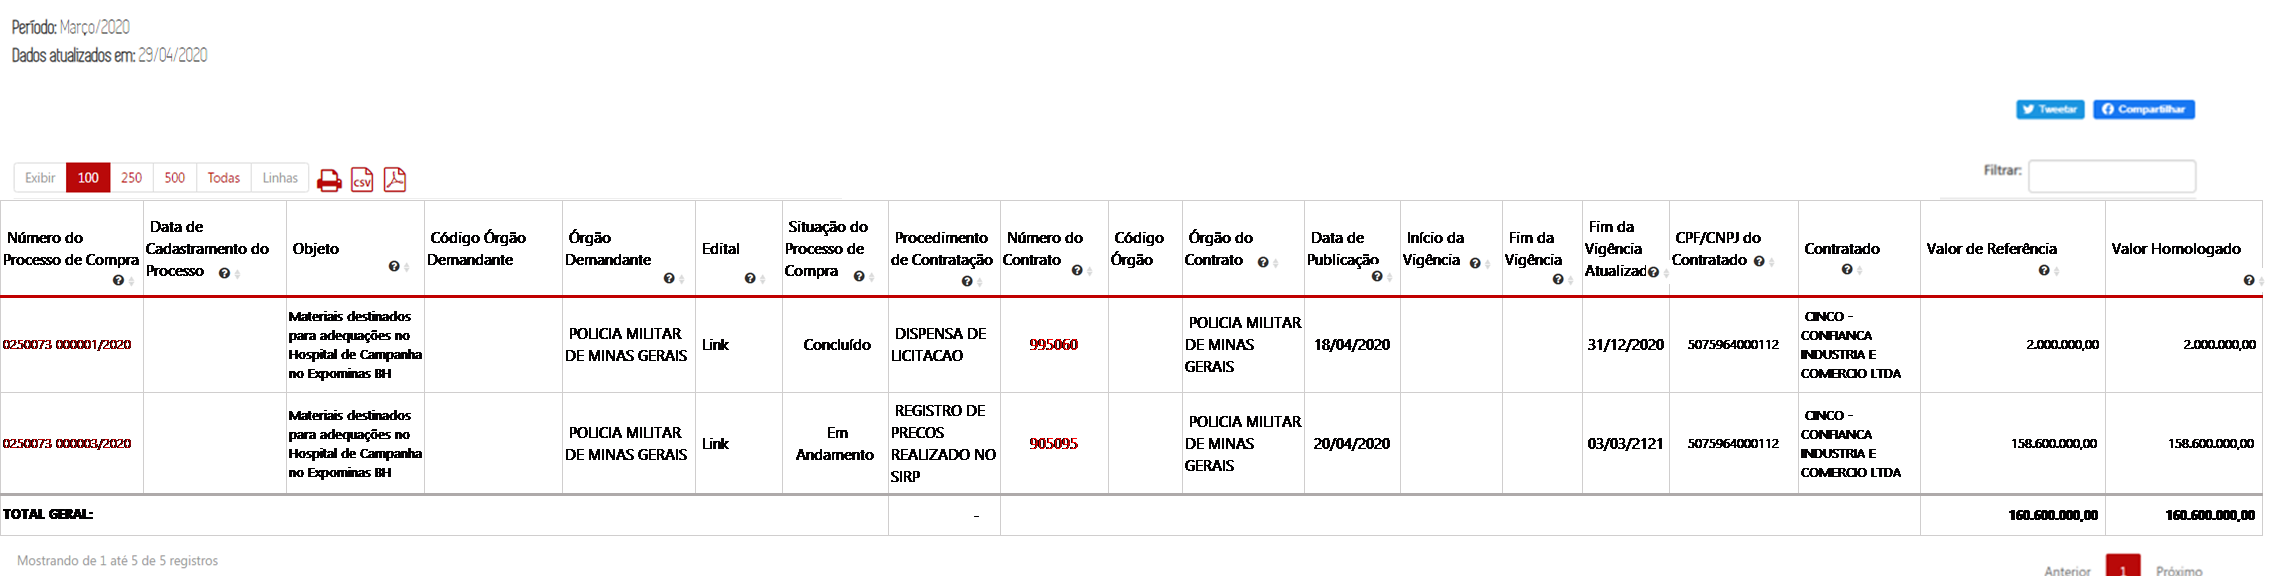
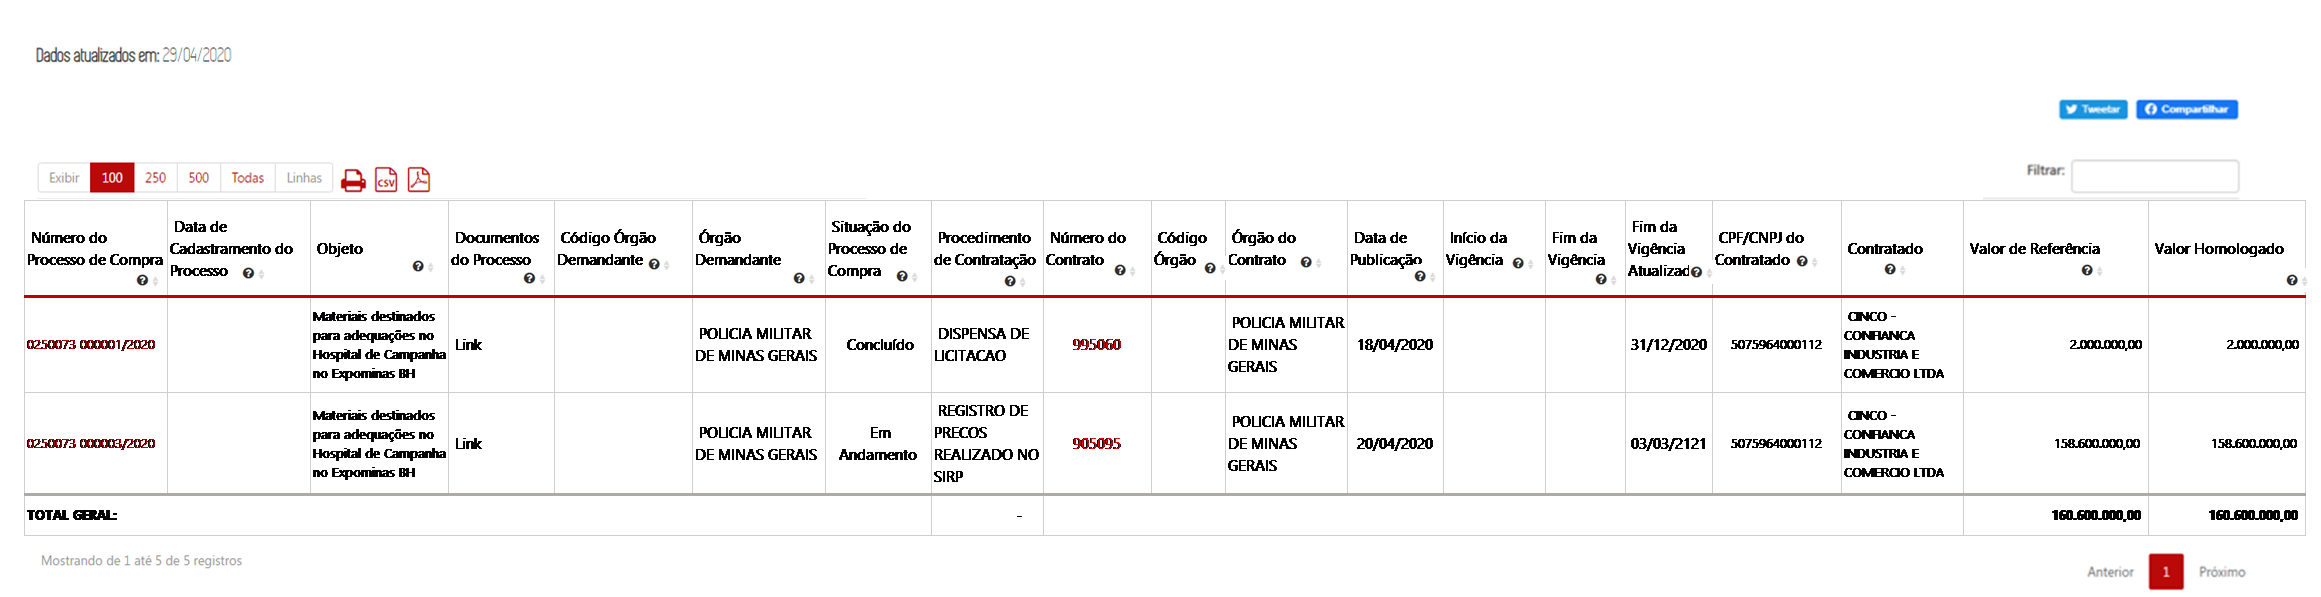
altera-campo-edital-leiaute-painel

diff --git a/consulta-contratos-covid.md b/consulta-contratos-covid.md
@@ -77,10 +77,10 @@ ___Itens da tabela___:
 
 1. __Data de Cadastramento do Processo:__ Data de Cadastro do Processo de Compras
 1. __Objeto do Processo:__ Descrição dos bens e serviços que estão sendo comprados e sua finalidade.
-
+1. __Documentos do Processo:__ Relação dos documentos do processo de compra: Edital e suas retificações, relatório de detalhes do processo de compra, dados do pregão e outros arquivos relacionados ao processo.
 1. __Código Órgão Demandante:__ Código do órgão demandante
 1. __Órgão demandante__: Órgão ou entidade que solicitou a compra de determinado material ou serviço. Pode coincidir ou não com o órgão que está executando o processo de compra.
-1. __Edital:__ Edital do procedimento de contratação
+
 1. __Situação do Processo:__ Situação do processo de compra durante a aquisição de materiais e serviços (concluído, suspenso, em andamento, etc.). Quanto aos processos de compra com situação em andamento, são considerados apenas os itens já homologados desses processos.
 1. __Procedimento de contratação:__ Inclui as modalidades de licitação (concorrência, tomada de preços, convite e leilão), pregão, dispensa, inexigibilidade, registro de preços, etc.
 1. __Número do Contrato__: Número do contrato registrado no SIAFI.
@@ -113,8 +113,19 @@ __Exemplo:__ Processo de compra - [0250073 000001/2020](http://transparencia.mg.
 * Ao clicar no _[Número do contrato]_ o usuário será direcionado para a página do Portal de Compras para realizar o download do contrato;  
 __Exemplo:__ Número do Contrato - [9245761](https://www1.compras.mg.gov.br/contrato/gestaocontratos/arquivosContrato.html?idContrato=162593)
 
-* Ao clicar em _[Edital]_ o usuário será direcionado para a página do Portal de Compras para realizar o download do edital;  
-__Exemplo:__ Edital - [Link](https://www1.compras.mg.gov.br/processocompra/processo/consultaEditalRetificaoProcesso.html?metodo=visualizarEditalRetificao&id=417793)
+* Ao clicar em _[Documentos do processo]_ o usuário será direcionado para a página do Portal de Compras onde constam todos os documentos relacionados ao processo de compra.  
+
+  __Exemplo:__ Documentos do processo - [Link](https://www1.compras.mg.gov.br/processocompra/processo/consultaProcessoCompra.html?metodo=pesquisar&codigoUnidadeCompra=1501561&numero=000028&ano=2020)
+
+  * _URL_ que deverá ser recuperda para exibição dos documentos do processos:
+<https://www1.compras.mg.gov.br/processocompra/processo/consultaProcessoCompra.html?metodo=pesquisar&codigoUnidadeCompra={unidade}&numero={numero}&ano={ano}>
+
+  * Considerar os seguintes campos para construção da _url_:
+   * Processo de Compra: 1501561 000028/2020    
+      Código da Unidade: 1501561    
+      Número do Processo: 000028    
+      Ano do Processo: 2020
+
 
 * O cidadão poderá realizar a extração dos dados através dos ícones (imprimir, CSV e PDF);
 
